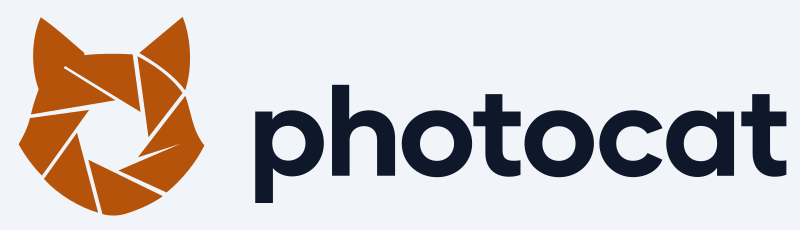
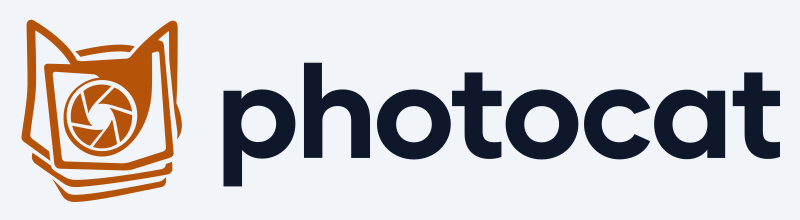
Replace the lockup: the new drawing, cleaned, framed at 800
The owner redrew the lockup as an Inkscape export (12.0 KiB) and it had three
problems: every element carried `style="fill:#000000"`, which beats the `fill`
attribute, so the whole file rendered black; the band still had the geometry of
the previous crop (376×108 over an 838×230 viewBox, so the strip ended in the
middle of the word); and the `<style>` defaults still had the tool's amber
`#e08607` instead of the palette's `#f59e0b`.

The frame is what the owner saw next: "На github картинка 800 шириной, а
основное поле 838". The drawing was framed 838×230 with 33.5 of air on the left
and 46.1 on the right, and the README showed a 4.5 % downscale of that. The
viewBox is `76.7 196.15 800 220` now — the canvas is the size it is displayed at,
and the ink (758.4×182.3, measured) sits with equal air, 20.8 across and 18.85
down. Nothing is cropped: the transforms are the owner's to the digit.

The file is 9.9 KiB of readable XML; no Inkscape or Sodipodi namespaces, no
namedview, no metadata, no unused ids. `render.sh` passes the width alone for the
lockup, so a width and a height that disagree with the viewBox cannot stretch it
again.

Changed region(s): [[0.0, 0.0818, 1.0, 0.9545]]

diff --git a/plan/BACKLOG.ru.md b/plan/BACKLOG.ru.md
@@ -2336,6 +2336,26 @@ Lumix: видео MJPEG в контейнере QuickTime со звуком PCM 
 держит `<mask>` — без неё вырезка на 24 px была бы сплошным пятном, так и выглядела первая попытка. У
 рисунка 24 px на линию меньше пикселя, поэтому его рендер получает штрих `0.25`. `cargo test` 366 +
 `source_language` 3, `clippy`, `check.sh` 55, `rust-analyzer` чисто; снимок окна показывает новый знак.
+**M26.22 — новый локап, вычищенный и обрамлённый в размер, в котором его показывают.** ✅ (2026-11-27)
+**Источник.** Сообщение владельца 2026-11-27 с `photocat-lockup2.svg`: «Почисти svg от лишнего. Касаемо
+размеров. На github картинка 800 шириной, а основное поле 838 от чего картинка сдвинут влево.»
+**Приёмка.**
+1. В файле — геометрия владельца дословно (с трансформами) и ничего сверх: ни пространств имён
+   Inkscape и Sodipodi, ни `namedview`, ни `metadata`, ни неиспользуемых id, ни устаревших комментариев.
+2. Цвета остаются переменными CSS; значения по умолчанию — палитры (`#f59e0b`/`#e7e8ee`/`#222327`
+   тёмная, `#b45309`/`#0f172a`/`#f1f5f9` светлая).
+3. Полотно 800×220 — та ширина, в которой README его показывает, — а чернила (758.4×182.3) обрамлены
+   равным воздухом: 20.8 по бокам, 18.85 сверху и снизу, поэтому ничего не выглядит сдвинутым.
+4. `assets/render.sh` для локапа передаёт только ширину, и оба PNG выходят 800×220.
+5. Старый локап и его растры заменены; `assets/README.md`, README и журнал говорят, какие размеры.
+**Сделано (2026-11-27).** 9.9 КиБ чистого SVG против 12.0 КиБ экспорта. В экспорте было 17 атрибутов
+`style="fill:#000000"`, перекрывавших переменные (всё рендерилось чёрным), полоса осталась от прежней
+обрезанной геометрии (376×108 при viewBox 838×230 — она обрывалась на середине слова) и цвет
+инструмента `#e08607`. viewBox переехал с `64 192 838 230` на `76.7 196.15 800 220`: чернила на
+месте, изменилась только рамка вокруг них. Замеренный воздух при 800 px: 21 / 20 по бокам, 19 / 18
+сверху и снизу. `render.sh` 1.4 с; `cargo test` 366 + 3, `clippy`, `check.sh` 55, `rust-analyzer` чисто.
+**Чего не делать.** Обрезать чернила; второй файл на тему; картинку локапа внутри окна.
+
 **Чего не делать.** Рендер 16 px (залитый силуэт — это новый рисунок); рендерер SVG внутри бинарника
 (зависимость ради файла, который не меняется); правка PNG руками; вторая схема цветов на файл.
 

diff --git a/plan/STATUS.md b/plan/STATUS.md
@@ -4347,3 +4347,38 @@ top strip.
 of the lockup), `docs/DECISIONS.md` + `.ru.md` ADR 0052 (SVG as the source, PNGs committed, no SVG
 parser in the binary), `docs/UI.md` + `.ru.md` (the strip's file), `README.md` + `.ru.md` (`<picture>`),
 `plan/BACKLOG.md` § M26.21, `CHANGELOG.md` + `CHANGELOG.ru.md`.
+
+## M26.22 — the new lockup: cleaned, and framed at the size it is shown (2026-11-27)
+
+The owner redrew the lockup and put it in `assets/photocat-lockup2.svg` (an Inkscape export, 12.0 KiB).
+Three things were wrong with it, and one with the frame around it.
+
+**The export overrode its own variables.** Every element carried `style="fill:#000000"` (17 of them):
+an inline style beats the `fill` attribute, so the file rendered as a black silhouette — the first
+attempt looked like a blob on a band. The styles are gone; the groups and the variables decide.
+
+**The band was from the previous crop.** It still had `width="376" height="108"` while the viewBox was
+838×230, so the strip ended in the middle of the word. It is 800×220 now, the whole canvas.
+
+**The ink was in the tool's amber** (`#e08607`) in the `<style>` defaults — now the palette's
+`#f59e0b`, with `#b45309` for the light theme.
+
+**The frame.** The owner's complaint: "На github картинка 800 шириной, а основное поле 838 от чего
+картинка сдвинут влево." The drawing was framed 838×230 with 33.5 of air on the left and 46.1 on the
+right, and the README shows the PNG at 800 — a downscale of a frame that was already off-centre. The
+viewBox is now `76.7 196.15 800 220`: **the canvas is the size GitHub shows it at**, and the ink
+(758.4×182.3 — measured, not guessed) sits with equal air, 20.8 to each side and 18.85 above and
+below. Nothing was cropped: the transforms are the owner's to the digit, only the frame moved.
+`render.sh` passes the width alone for the lockup, so a width and a height that disagree with the
+viewBox can never stretch it again (that was a trap in the script, not in the file).
+
+Cleaning: the new file is 9.9 KiB of readable XML against the 12.0 KiB export — no Inkscape or Sodipodi
+namespaces, no `namedview`, no `metadata`, no unused ids, one comment block explaining the variables
+and the frame. The mask, the mark and the eight word paths are the owner's.
+
+Measured: both renders 800×220, air 21/20 left and right and 19/18 above and below at that size;
+`render.sh` 1.4 s for all eight files; `cargo test` 366 passed + `source_language` 3,
+`clippy --all-targets` clean, `check.sh` 55, `rust-analyzer diagnostics` no errors.
+
+**Documents.** `assets/README.md` (the lockup row: 800×220, the measured ink, the width-only rule),
+`plan/BACKLOG.md` § M26.22, `CHANGELOG.md` + `CHANGELOG.ru.md`.

diff --git a/plan/BACKLOG.md b/plan/BACKLOG.md
@@ -2780,6 +2780,29 @@ mark keeps its holes through a `<mask>` — without it a cut-out would be a soli
 is how the first attempt looked. The 24 px drawing is under a pixel per line, so its render gets a
 `0.25`-unit stroke. `cargo test` 366 passed + `source_language` 3, `clippy`, `check.sh` 55,
 `rust-analyzer` clean; the screenshot of the running window shows the new mark in the strip.
+**M26.22 — the new lockup, cleaned, and framed at the size it is shown.** ✅ (done 2026-11-27)
+**Source.** The owner's message of 2026-11-27 with `photocat-lockup2.svg`: "Почисти svg от лишнего.
+Касаемо размеров. На github картинка 800 шириной, а основное поле 838 от чего картинка сдвинут влево."
+**Acceptance criteria.**
+1. The file is the owner's geometry verbatim (transforms included) and nothing else: no Inkscape or
+   Sodipodi namespace, no `namedview`, no `metadata`, no unused ids, no stale comments.
+2. The colours stay CSS variables; the defaults are the palette's (`#f59e0b`/`#e7e8ee`/`#222327` dark,
+   `#b45309`/`#0f172a`/`#f1f5f9` light).
+3. The canvas is 800×220 — the width the README shows — and the ink (758.4×182.3) is framed with equal
+   air, 20.8 to each side and 18.85 above and below, so nothing looks shifted.
+4. `assets/render.sh` passes the width only for the lockup, and the two PNGs come out 800×220.
+5. The old lockup and its rasters are replaced; `assets/README.md`, the READMEs and the changelog say
+   what the sizes are.
+**Files.** `assets/photocat-lockup.svg`, `assets/render.sh`, `assets/photocat-lockup{,-light}.png`,
+`assets/README.md`, `plan/STATUS.md`, `CHANGELOG.md`, `CHANGELOG.ru.md`.
+**Done (2026-11-27).** 9.9 KiB of clean SVG against the 12.0 KiB export. The export had 17
+`style="fill:#000000"` attributes that overrode the variables (everything rendered black), the band
+still at the old cropped geometry (376×108 over a 838×230 viewBox — the strip ended mid-word) and the
+tool's amber `#e08607`. The viewBox moved from `64 192 838 230` to `76.7 196.15 800 220`: the ink is
+where it was, only the frame around it changed. Measured air at 800 px: 21 / 20 left and right, 19 / 18
+top and bottom. `render.sh` 1.4 s; `cargo test` 366 + 3, `clippy`, `check.sh` 55, `rust-analyzer` clean.
+**Not doing.** Cropping the ink; a second file per theme; an image of the lockup inside the window.
+
 **Not doing.** A 16 px render (a filled silhouette is a new drawing); an SVG renderer inside the
 binary (a dependency for a file that never changes); editing a PNG by hand; a second colour scheme
 per file.

diff --git a/assets/README.md b/assets/README.md
@@ -10,7 +10,7 @@ same Apache-2.0 as the code.
 | File | What it is |
 |---|---|
 | `photocat-mark.svg` | the mark, 32×32 units, **the source of every raster below** |
-| `photocat-lockup.svg` | the mark and the word side by side, cropped to the ink |
+| `photocat-lockup.svg` | the mark and the word side by side — native 800×220, the ink (758.4×182.3) framed with equal air on all four sides |
 
 Both are the owner's drawings, kept verbatim: the paths were not redrawn, only re-wrapped. The colours
 are CSS variables, so one file serves both themes:
@@ -46,11 +46,14 @@ build time: the binary embeds exactly two files, and a compositor or a package r
 | `photocat-mark-48.png` | 48×48 | white on transparency, a hair of stroke (`0.25`) because a 1.2-unit line is 0.9 px at the size it is drawn | the top bar: embedded, drawn at 24 logical px (`BRAND_MARK`) and **tinted** with the accent of the theme, so one file is right in both themes |
 | `photocat-icon-32.png` … `-256.png` | 32, 64, 128, 256 | amber on the plate | the window icon (the 256 px one is embedded) and `hicolor/<size>/apps` of a package — the plate keeps the mark visible on a light desktop |
 | `photocat-1024.png` | 1024×1024 | amber on the plate | a store page, a press kit, a print |
-| `photocat-lockup.png` | 800×230 | dark band, light word | the README in a dark theme |
-| `photocat-lockup-light.png` | 800×230 | light band, dark word | the README in a light theme |
+| `photocat-lockup.png` | 800×220 | dark band, light word | the README in a dark theme |
+| `photocat-lockup-light.png` | 800×220 | light band, dark word | the README in a light theme |
 
 The two lockups are chosen by the reader's theme with `<picture>` + `prefers-color-scheme`, so a
-single README is legible on GitHub's dark and light pages.
+single README is legible on GitHub's dark and light pages. Their canvas *is* the size the README shows
+them at (800 px), so nothing is downscaled and the air around the ink stays equal: 21 px left and
+right, 19 px above and below. `render.sh` passes the width only — a width and a height that disagree
+with the viewBox stretch the drawing, which is how the first lockup ended up cropped and off-centre.
 
 ## Changing something
 

diff --git a/plan/STATUS.ru.md b/plan/STATUS.ru.md
@@ -3808,3 +3808,8 @@ source_language` 3. Релиз для Windows пересобран и скопи
 → done:M26.21 (знак и локап теперь SVG с цветами в переменных CSS — `photocat-mark`, `photocat-paper`,
 `photocat-word`, `photocat-band`; из двух файлов скрипт `assets/render.sh` рендерит все восемь PNG,
 старые растры заменены, README берёт локап под тему читателя; подробности — в `STATUS.md`)
+
+→ done:M26.22 (новый локап владельца вычищен от экспортного мусора: сняты 17 инлайн-`style`, полоса
+доведена до полотна, цвет знака — `#f59e0b`; viewBox `76.7 196.15 800 220` — полотно ровно в том
+размере, в котором картинку показывает GitHub, чернила обрамлены равным воздухом 20.8/18.85, ничего
+не обрезано; подробности — в `STATUS.md`)

diff --git a/CHANGELOG.ru.md b/CHANGELOG.ru.md
@@ -27,6 +27,8 @@
 - Знак и локап в SVG с цветами в переменных CSS (`photocat-mark`, `photocat-paper`, `photocat-word`,
   `photocat-band`), из которых `assets/render.sh` делает все PNG, а README берёт локап под тему
   читателя [M26.21].
+- Локап по новой раскладке владельца: знак приложения рядом со словом, 800×220 — ровно тот размер,
+  в котором его показывает README, — чернила обрамлены равным воздухом и ничего не обрезано [M26.22].
 
 ### Изменено
 

diff --git a/CHANGELOG.md b/CHANGELOG.md
@@ -27,6 +27,8 @@ maintainer needs. A release takes the `[Unreleased]` section, gives it a version
 - The mark and the lockup as SVG with the colours in CSS variables (`photocat-mark`,
   `photocat-paper`, `photocat-word`, `photocat-band`), rendered into every PNG by `assets/render.sh`,
   and the README picks the lockup that matches the reader's theme [M26.21].
+- The lockup is the owner's new layout: the app's own mark beside the word, 800×220 — the size the
+  README shows it at — with the ink framed by equal air and no cropping [M26.22].
 
 ### Changed
 
